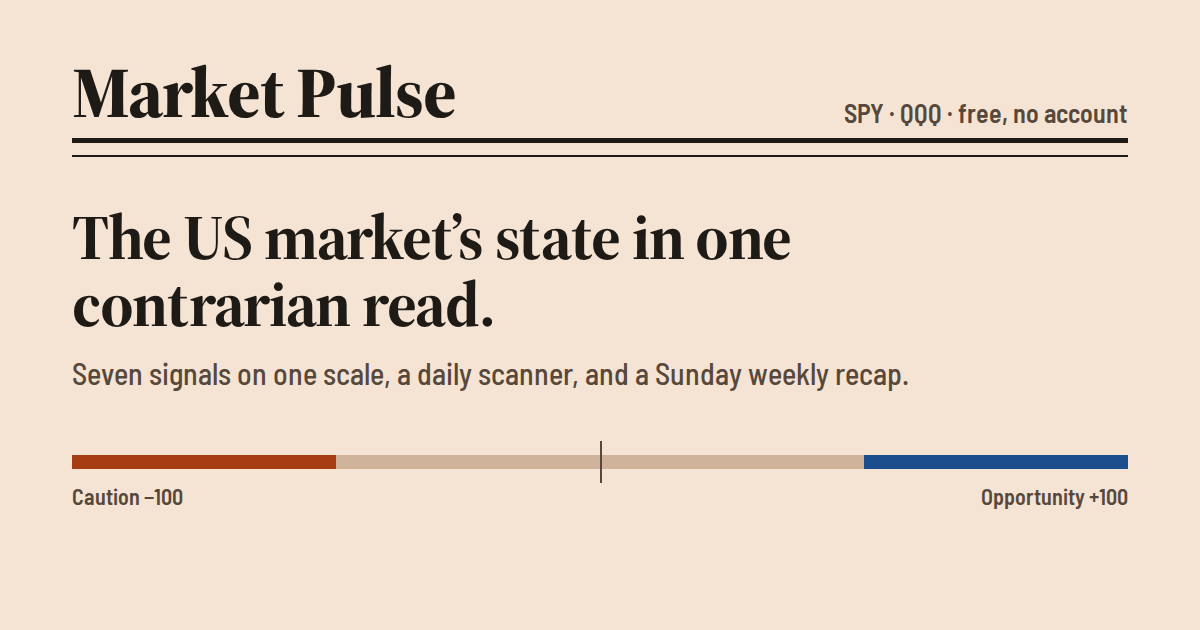
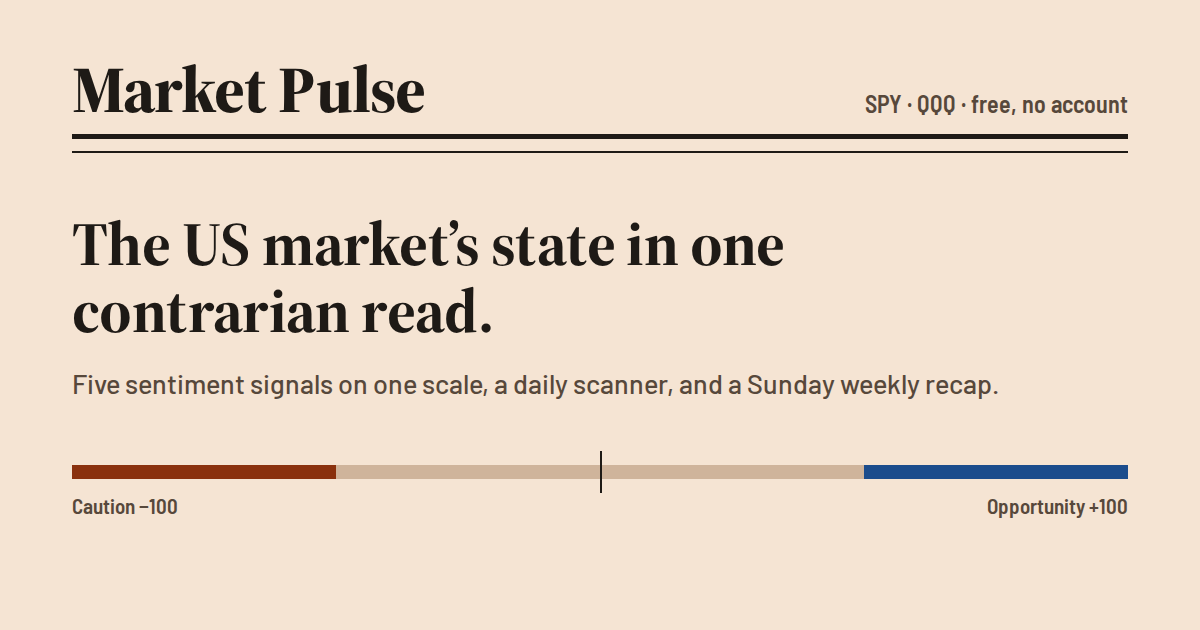
Make the composite purely contrarian: five scored signals
The composite averaged five contrarian signals with two trend-health
signals scored the opposite way (equal-weight participation and defensive
rotation), so breadth and participation could describe the same narrow
market and still pull in opposite directions. Only contrarian signals are
now scored: trend extension, AAII, VIX, breadth and CNN Fear & Greed.
Participation, rotation and the momentum streak are shown as context
entries under their own heading. The history line is rescored with the
same table. Needs 3 of 5 fresh signals (history: 4 of 5).

Copy, PRODUCT.md, DESIGN.md and the share image now say five signals.

Claude-Session: https://claude.ai/code/session_01PxDU2LZDD1gacs3DpU4FHA

diff --git a/index.html b/index.html
@@ -4,7 +4,7 @@
 <meta charset="utf-8" />
 <meta name="viewport" content="width=device-width, initial-scale=1, viewport-fit=cover" />
 <title>Market Pulse — SPY / QQQ market health, at a glance</title>
-<meta name="description" content="One contrarian read of the US market: seven scored signals for SPY/QQQ on one scale, with every reading's freshness shown." />
+<meta name="description" content="One contrarian read of the US market: five sentiment and positioning signals for SPY/QQQ on one scale, with every reading's freshness shown." />
 
 <meta property="og:type" content="website" />
 <meta property="og:title" content="Market Pulse — SPY / QQQ market health, at a glance" />
@@ -64,7 +64,7 @@
   .weekly-link .wl-t { font-family: var(--serif); font-weight: 700; font-size: var(--step-1); line-height: 1.2; text-decoration: underline; text-decoration-color: var(--rule); text-underline-offset: 4px; }
   .weekly-link:hover .wl-t { text-decoration-color: var(--ink); }
 
-  /* Seven signals on one scale */
+  /* Five signals on one scale */
   .dotplot { border-top: 2px solid var(--ink); margin-top: var(--space-3); }
   .drow { display: grid; grid-template-columns: minmax(112px, 150px) minmax(0, 1fr) 92px; gap: var(--space-3); align-items: center; min-height: 44px; border-bottom: 1px solid var(--rule); font-family: var(--cond); font-weight: 600; font-size: 0.9375rem; }
   .drow .track { position: relative; height: 16px; }
@@ -87,6 +87,7 @@
   .entries { display: grid; grid-template-columns: minmax(0, 1fr); column-gap: var(--space-6); }
   @media (min-width: 760px) { .entries { grid-template-columns: repeat(2, minmax(0, 1fr)); } }
   .entry { border-bottom: 1px solid var(--rule); padding: var(--space-4) 0 var(--space-4); }
+  .entries-divider { grid-column: 1 / -1; margin-top: var(--space-6); padding-top: var(--space-2); border-top: 2px solid var(--ink); font-weight: 700; font-size: var(--step-1); }
   .entry-head { display: flex; justify-content: space-between; align-items: baseline; gap: var(--space-3); }
   .entry-head h3 { font-weight: 700; font-size: var(--step-1); line-height: 1.2; }
   .entry-code { font-family: var(--cond); font-weight: 500; font-size: var(--step--1); color: var(--ink-3); margin-top: 2px; }
@@ -141,13 +142,13 @@
       </div>
     </div>
     <div id="gauge-wrap"></div>
-    <p class="explain">A score, not an index level: the average of the seven signals’ scores, from −100 (caution) to +100 (opportunity). A contrarian read, not a forecast: it leans toward opportunity when fear, pessimism or oversold conditions dominate, and toward caution when comfort, greed or crowding dominate.</p>
+    <p class="explain">A score, not an index level: the average of the five contrarian signals’ scores, from −100 (caution) to +100 (opportunity). A contrarian read, not a forecast: it leans toward opportunity when fear, pessimism or oversold conditions dominate, and toward caution when comfort, greed or crowding dominate.</p>
     <div id="sparkline-slot"></div>
     <div id="weekly-slot"></div>
   </section>
 
   <section aria-labelledby="scale-title">
-    <h2 class="h-section" id="scale-title">Seven signals, one scale</h2>
+    <h2 class="h-section" id="scale-title">Five signals, one scale</h2>
     <p class="lede">On the right is each signal’s actual reading. The dot is the score that reading gets on one shared −100…+100 scale: left of centre leans caution, right leans opportunity.</p>
     <div class="dotplot" id="signal-scale"></div>
     <div class="scale-axis" aria-hidden="true"><span>Score</span><span class="ends"><span>−100</span><span>0</span><span>+100</span></span><span style="text-align:right">Reading</span></div>
@@ -238,25 +239,27 @@ async function loadJSON(path) {
 // Each signal maps its reading onto a shared scale: -100 = strong caution … +100 = strong opportunity,
 // by straight lines between anchor points [reading, score]. The ±50 anchors are the thresholds quoted
 // on each entry, so "Caution"/"Opportunity" on an entry always means the same thing as in the composite.
+// Only contrarian signals are scored: each one reads fear, pessimism or an oversold market as
+// opportunity, and comfort, greed or a stretched market as caution, so they all pull the same way.
+// Participation (RSP vs SPY) and defensive rotation are trend-health measures that read the other
+// way round, so they are shown as context entries and kept out of the composite.
 const SIGNALS = {
   trend:         [[-10, 100], [-3, 50], [3, 0], [8, -50], [12, -100]],     // SPY % vs its 150-day SMA
   aaii:          [[-29, 100], [-11, 50], [6.5, 0], [24, -50], [42, -100]],  // bull−bear spread (long-run avg +6.5)
   vix:           [[11, -100], [14, -50], [18, 0], [25, 50], [35, 100]],     // VIX level (long-run median ≈ 18)
-  participation: [[-4, -100], [-2, -50], [0, 0], [2, 50], [4, 100]],        // RSP − SPY, 20 sessions
   breadth:       [[5, 100], [15, 50], [50, 0], [70, -50], [85, -100]],      // % of S&P 500 above 50-day SMA
-  rotation:      [[-6, 100], [-3, 50], [0, 0], [3, -50], [6, -100]],        // (XLU+XLP)/2 − XLY, 20 sessions
   feargreed:     [[0, 100], [25, 50], [50, 0], [75, -50], [100, -100]],     // CNN's own bands
 };
+const MIN_SIGNALS = 3; // the composite needs at least this many fresh signals
 const SIGNAL_COUNT = Object.keys(SIGNALS).length;
 const SIGNAL_NAMES = {
-  trend: "Trend vs 150-day", aaii: "AAII sentiment", vix: "VIX", participation: "Participation",
-  breadth: "Breadth", rotation: "Sector rotation", feargreed: "Fear & Greed",
+  trend: "Trend vs 150-day", aaii: "AAII sentiment", vix: "VIX",
+  breadth: "Breadth", feargreed: "Fear & Greed",
 };
 // What each reading measures, shown under the name in the scale rows.
 const SIGNAL_UNITS = {
   trend: "SPY vs its 150-day average", aaii: "bulls minus bears", vix: "volatility index level",
-  participation: "equal-weight minus S&P, 20 days", breadth: "S&P stocks above 50-day",
-  rotation: "defensives minus discretionary, 20 days", feargreed: "CNN index, 0 to 100",
+  breadth: "S&P stocks above 50-day", feargreed: "CNN index, 0 to 100",
 };
 
 function scoreFrom(key, x) {
@@ -324,7 +327,7 @@ function animateGaugeTo(targetScore) {
   requestAnimationFrame(frame);
 }
 
-// ---------- Seven signals on one scale ----------
+// ---------- Five signals on one scale ----------
 function renderScale(rows) {
   const sorted = [...rows].sort((a, b) => (a.score ?? 999) - (b.score ?? 999));
   $("#signal-scale").innerHTML = sorted.map((r) => {
@@ -365,7 +368,7 @@ function card({ title, code, score = null, context = false, value, valueStyle = 
     ? `<dl class="kv">${sub.map(([k, v]) => `<div><dt>${esc(k)}</dt><dd>${esc(v)}</dd></div>`).join("")}</dl>`
     : "";
   return `
-  <article class="entry">
+  <article class="entry" data-kind="${context ? "context" : "scored"}">
     <div class="entry-head"><h3>${esc(title)}</h3>${stale ? `<span class="stamp">Stale</span>` : statusTag(zone.status, context || num(score) === null ? zone.tag : `${zone.tag} · score ${fmtScore(score)}`)}</div>
     ${code ? `<div class="entry-code">${esc(code)}</div>` : ""}
     <div class="entry-figure"><span class="val ${strong ? zone.status : ""}" style="${valueStyle}">${esc(value)}</span>${unit ? `<span class="unit">${esc(unit)}</span>` : ""}</div>
@@ -433,7 +436,7 @@ function assess(fast, breadth, aaii) {
 }
 
 // ---------- History: the line is scored with the same SIGNALS table ----------
-function compositeFromReadings(r, minSignals = 5) {
+function compositeFromReadings(r, minSignals = 4) {
   const scores = Object.keys(SIGNALS).map((k) => scoreFrom(k, r[k])).filter((s) => s !== null);
   return scores.length >= minSignals ? scores.reduce((a, b) => a + b, 0) / scores.length : null;
 }
@@ -611,18 +614,13 @@ function render({ fast, breadth, aaii, daily }) {
   // 5. Participation
   {
     const rel = num(fast?.participation?.rsp_minus_spy_20d_pct);
-    const score = q.pricesOk(fast?.participation?.RSP, spy) ? scoreFrom("participation", rel) : null;
-    scores.participation = score;
-    readings.participation = fmtPct(rel);
-    if (score === null && fast) reasons.participation = "Stale";
     const rsp = fast?.participation?.RSP;
     cards.push(card({
       title: "Market participation",
       code: "Equal-weight RSP vs cap-weight SPY, 20 sessions",
-      score, value: fmtPct(rel), unit: "RSP − SPY", stale: !!fast && !q.pricesOk(fast?.participation?.RSP, spy),
-      meterLabels: ["Narrow (caution)", "Broad (healthy)"],
+      context: true, value: fmtPct(rel), unit: "RSP − SPY", stale: !!fast && !q.pricesOk(rsp, spy),
       sub: [["RSP 20-day", fmtPct(rsp?.return_20d_pct)], ["SPY 20-day", fmtPct(spy?.return_20d_pct)]],
-      note: "How the average stock is doing next to the giants. Lagging by more than 2 points = gains concentrated in a few mega-caps, a narrower, more fragile market (caution). Leading by 2+ = broad participation.",
+      note: "How the average stock is doing next to the giants. Lagging by more than 2 points means gains are concentrated in a few mega-caps; leading by 2+ means broad participation. Context only: a market-health measure, not part of the contrarian composite.",
       asOf: priceAsOf(fast, rsp),
     }));
   }
@@ -657,17 +655,12 @@ function render({ fast, breadth, aaii, daily }) {
     const def = r20("XLU") !== null && r20("XLP") !== null ? (r20("XLU") + r20("XLP")) / 2 : null;
     const spread = num(fast?.sector_rotation?.defensive_minus_cyclical_20d_pct) ??
       (def !== null && r20("XLY") !== null ? Math.round((def - r20("XLY")) * 100) / 100 : null);
-    const score = q.pricesOk(s.XLU, s.XLP, s.XLY) ? scoreFrom("rotation", spread) : null;
-    scores.rotation = score;
-    readings.rotation = fmtPct(spread);
-    if (score === null && fast) reasons.rotation = "Stale";
     cards.push(card({
       title: "Defensive sector rotation",
       code: "Utilities + Staples vs Discretionary, 20 sessions",
-      score, value: fmtPct(spread), unit: "defensive − cyclical", stale: !!fast && !q.pricesOk(s.XLU, s.XLP, s.XLY),
-      meterLabels: ["Rotating defensive (caution)", "Risk-on (opportunity)"],
+      context: true, value: fmtPct(spread), unit: "defensive − cyclical", stale: !!fast && !q.pricesOk(s.XLU, s.XLP, s.XLY),
       sub: [["XLU 20-day", fmtPct(r20("XLU"))], ["XLP 20-day", fmtPct(r20("XLP"))], ["XLY 20-day", fmtPct(r20("XLY"))]],
-      note: "When Utilities and Staples outrun Discretionary by 3+ points, money is hiding in safety, often an early warning under a calm index (caution). Discretionary leading by 3+ = healthy risk appetite.",
+      note: "When Utilities and Staples outrun Discretionary by 3+ points, money is hiding in safety; Discretionary leading by 3+ shows healthy risk appetite. Context only: a market-health measure, not part of the contrarian composite.",
       asOf: priceAsOf(fast, s.XLY),
     }));
   }
@@ -694,12 +687,16 @@ function render({ fast, breadth, aaii, daily }) {
     }));
   }
 
-  $("#card-grid").innerHTML = cards.join("");
+  // Scored signals first, then the context entries under their own heading.
+  const scored = cards.filter((c) => c.includes('data-kind="scored"'));
+  const contextCards = cards.filter((c) => c.includes('data-kind="context"'));
+  $("#card-grid").innerHTML = scored.join("") +
+    (contextCards.length ? `<h3 class="entries-divider">Context: shown for reference, not part of the composite</h3>${contextCards.join("")}` : "");
   renderScale(Object.keys(SIGNALS).map((k) => ({ key: k, name: SIGNAL_NAMES[k], score: scores[k], reason: reasons[k], reading: readings[k] })));
 
   // Composite
   const used = Object.values(scores).filter((s) => s !== null);
-  if (used.length >= 4) {
+  if (used.length >= MIN_SIGNALS) {
     const composite = used.reduce((a, b) => a + b, 0) / used.length;
     $("#gauge-score").style.opacity = "";
     animateGaugeTo(composite);

diff --git a/PRODUCT.md b/PRODUCT.md
@@ -12,7 +12,7 @@ A public audience the owner wants to grow: retail traders and market-curious inv
 
 ## Product Purpose
 
-Market Pulse turns scattered market-health signals into one contrarian read: seven scored signals (trend vs the 150-day average, AAII sentiment, VIX, equal-weight participation, % of S&P 500 above the 50-day, defensive sector rotation, CNN Fear & Greed) averaged into a −100 (caution) to +100 (opportunity) composite. A second page, the Opportunity Scanner, screens the S&P 500 + Nasdaq-100 for insider buying/selling (SEC Form 4), sector leadership, 52-week highs/lows, unusual volume and moving-average tests. A third page, the Weekly Recap, is a Sunday pre-open brief: the week's moves, sector rotation, notable trades by politicians, famous investors and insiders, news, and the week-ahead calendar. Success: a visitor knows the market's state within seconds on a phone and comes back before each open.
+Market Pulse turns scattered market signals into one contrarian read: five scored sentiment and positioning signals (trend vs the 150-day average, AAII sentiment, VIX, % of S&P 500 above the 50-day, CNN Fear & Greed) averaged into a −100 (caution) to +100 (opportunity) composite, with equal-weight participation, defensive rotation and the momentum streak shown as unscored context. A second page, the Opportunity Scanner, screens the S&P 500 + Nasdaq-100 for insider buying/selling (SEC Form 4), sector leadership, 52-week highs/lows, unusual volume and moving-average tests. A third page, the Weekly Recap, is a Sunday pre-open brief: the week's moves, sector rotation, notable trades by politicians, famous investors and insiders, news, and the week-ahead calendar. Success: a visitor knows the market's state within seconds on a phone and comes back before each open.
 
 ## Positioning
 

diff --git a/DESIGN.md b/DESIGN.md
@@ -48,7 +48,7 @@ including chips on `--paper-2`.
 
 ## Signature moment
 
-The seven signals are plotted as dots on one shared −100…+100 scale under the composite figure,
+The five scored signals are plotted as dots on one shared −100…+100 scale under the composite figure,
 so every signal is compared on the same axis.
 
 ## Weekly recap
